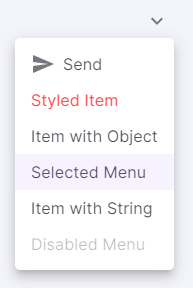
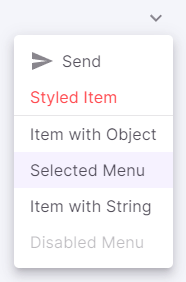
update(option-menu): add an option for adding divider

diff --git a/typescript-version/full-version/src/@core/components/option-menu/index.tsx b/typescript-version/full-version/src/@core/components/option-menu/index.tsx
@@ -3,6 +3,7 @@ import { MouseEvent, useState } from 'react'
 
 // ** MUI Imports
 import Menu from '@mui/material/Menu'
+import Divider from '@mui/material/Divider'
 import MenuItem from '@mui/material/MenuItem'
 import IconButton from '@mui/material/IconButton'
 
@@ -10,12 +11,12 @@ import IconButton from '@mui/material/IconButton'
 import DotsVertical from 'mdi-material-ui/DotsVertical'
 
 // ** Type Imports
-import { OptionsMenuType, OptionType } from './types'
+import { OptionType, OptionsMenuType } from './types'
 
 // ** Hook Import
 import { useSettings } from 'src/@core/hooks/useSettings'
 
-const OptionMenu = (props: OptionsMenuType) => {
+const OptionsMenu = (props: OptionsMenuType) => {
   // ** Props
   const { icon, options, menuProps, iconProps, leftAlignMenu, iconButtonProps } = props
 
@@ -51,27 +52,33 @@ const OptionMenu = (props: OptionsMenuType) => {
         {...menuProps}
       >
         {options.map((option: OptionType, index: number) => {
-          return typeof option === 'string' ? (
-            <MenuItem key={index} onClick={handleClose}>
-              {option}
-            </MenuItem>
-          ) : (
-            <MenuItem
-              key={index}
-              {...option.menuItemProps}
-              onClick={e => {
-                handleClose()
-                option.menuItemProps && option.menuItemProps.onClick ? option.menuItemProps.onClick(e) : null
-              }}
-            >
-              {option.icon ? option.icon : null}
-              {option.text}
-            </MenuItem>
-          )
+          if (typeof option === 'string') {
+            return (
+              <MenuItem key={index} onClick={handleClose}>
+                {option}
+              </MenuItem>
+            )
+          } else if ('divider' in option) {
+            return option.divider && <Divider key={index} {...option.dividerProps} />
+          } else {
+            return (
+              <MenuItem
+                key={index}
+                {...option.menuItemProps}
+                onClick={e => {
+                  handleClose()
+                  option.menuItemProps && option.menuItemProps.onClick ? option.menuItemProps.onClick(e) : null
+                }}
+              >
+                {option.icon ? option.icon : null}
+                {option.text}
+              </MenuItem>
+            )
+          }
         })}
       </Menu>
     </>
   )
 }
 
-export default OptionMenu
+export default OptionsMenu

diff --git a/typescript-version/full-version/src/@core/components/option-menu/types.ts b/typescript-version/full-version/src/@core/components/option-menu/types.ts
@@ -4,16 +4,26 @@ import { ReactNode } from 'react'
 // ** MUI Imports
 import { SvgIconProps } from '@mui/material'
 import { MenuProps } from '@mui/material/Menu'
+import { DividerProps } from '@mui/material/Divider'
 import { MenuItemProps } from '@mui/material/MenuItem'
 import { IconButtonProps } from '@mui/material/IconButton'
 
-export type OptionType =
-  | string
-  | {
-      text: ReactNode
-      icon?: ReactNode
-      menuItemProps?: MenuItemProps
-    }
+export type OptionDividerType = {
+  divider: boolean
+  dividerProps?: DividerProps
+  text?: never
+  icon?: never
+  menuItemProps?: never
+}
+export type OptionMenuItemType = {
+  text: ReactNode
+  icon?: ReactNode
+  menuItemProps?: MenuItemProps
+  divider?: never
+  dividerProps?: never
+}
+
+export type OptionType = string | OptionDividerType | OptionMenuItemType
 
 export type OptionsMenuType = {
   icon?: ReactNode

diff --git a/docs/guide/components/custom/option-menu.md b/docs/guide/components/custom/option-menu.md
@@ -10,17 +10,17 @@ Use this component to add an [`IconButton`](https://mui.com/material-ui/react-bu
 import Typography from '@mui/material/Typography'
 import Send from 'mdi-material-ui/Send'
 import ChevronDown from 'mdi-material-ui/ChevronDown'
-import OptionMenu from 'src/@core/components/option-menu'
+import OptionsMenu from 'src/@core/components/option-menu'
 
 const SomeComponent = () => {
   return (
-    <OptionMenu
-      rightAlignMenu
+    <OptionsMenu
       icon={<ChevronDown />}
       iconButtonProps={{ size: 'small', sx: { color: 'text.secondary' } }}
       options={[
         { text: <Typography>Send</Typography>, icon: <Send sx={{ mr: 2, color: 'text.secondary' }} /> },
         { text: 'Styled Item', menuItemProps: { sx: { color: 'error.main' } } },
+        { divider: true, dividerProps: { sx: { m: '0 !important' } } },
         { text: 'Item with Object' },
         { text: 'Selected Menu', menuItemProps: { selected: true } },
         'Item with String',
@@ -44,13 +44,25 @@ Result:
 | options         | `OptionType[]`    | Yes      | Add all the menu items                              |
 | icon            | `ReactNode`       | No       | Change the icon in the MUI's `IconButton` component |
 | menuProps       | `MenuProps`       | No       | Add props of the MUI's `Menu` component             |
-| rightAlignMenu  | `boolean`         | No       | If `true`, menu will align to right side            |
+| leftAlignMenu   | `boolean`         | No       | If `true`, menu will align to left side             |
 | iconButtonProps | `IconButtonProps` | No       | Add props of the MUI's `IconButton` component       |
+| iconProps       | `SvgIconProps`    | No       | Add props of the icon component                     |
 
-The type of `OptionType` is either `string` or below type:
+#### The type of `OptionType` is either:
 
-| Props           | Type              | Required | Description                                 |
-| :-------------- | :---------------- | :------- | :------------------------------------------ |
-| text            | `ReactNode`       | Yes      | The text inside a menu item                 |
-| icon            | `ReactNode`       | No       | To add an icon in a menu item               |
-| menuItemProps   | `MenuItemProps`   | No       | Add props of the MUI's `MenuItem` component |
+`string`
+
+*OR*
+
+| Props        | Type           | Required | Description                                |
+| :----------- | :------------- | :------- | :----------------------------------------- |
+| divider      | `boolean`      | Yes      | To add a separator in the menu             |
+| dividerProps | `DividerProps` | No       | Add props of the MUI's `Divider` component |
+
+*OR*
+
+| Props         | Type            | Required | Description                                 |
+| :------------ | :-------------- | :------- | :------------------------------------------ |
+| text          | `ReactNode`     | Yes      | The text inside a menu item                 |
+| icon          | `ReactNode`     | No       | To add an icon in a menu item               |
+| menuItemProps | `MenuItemProps` | No       | Add props of the MUI's `MenuItem` component |
